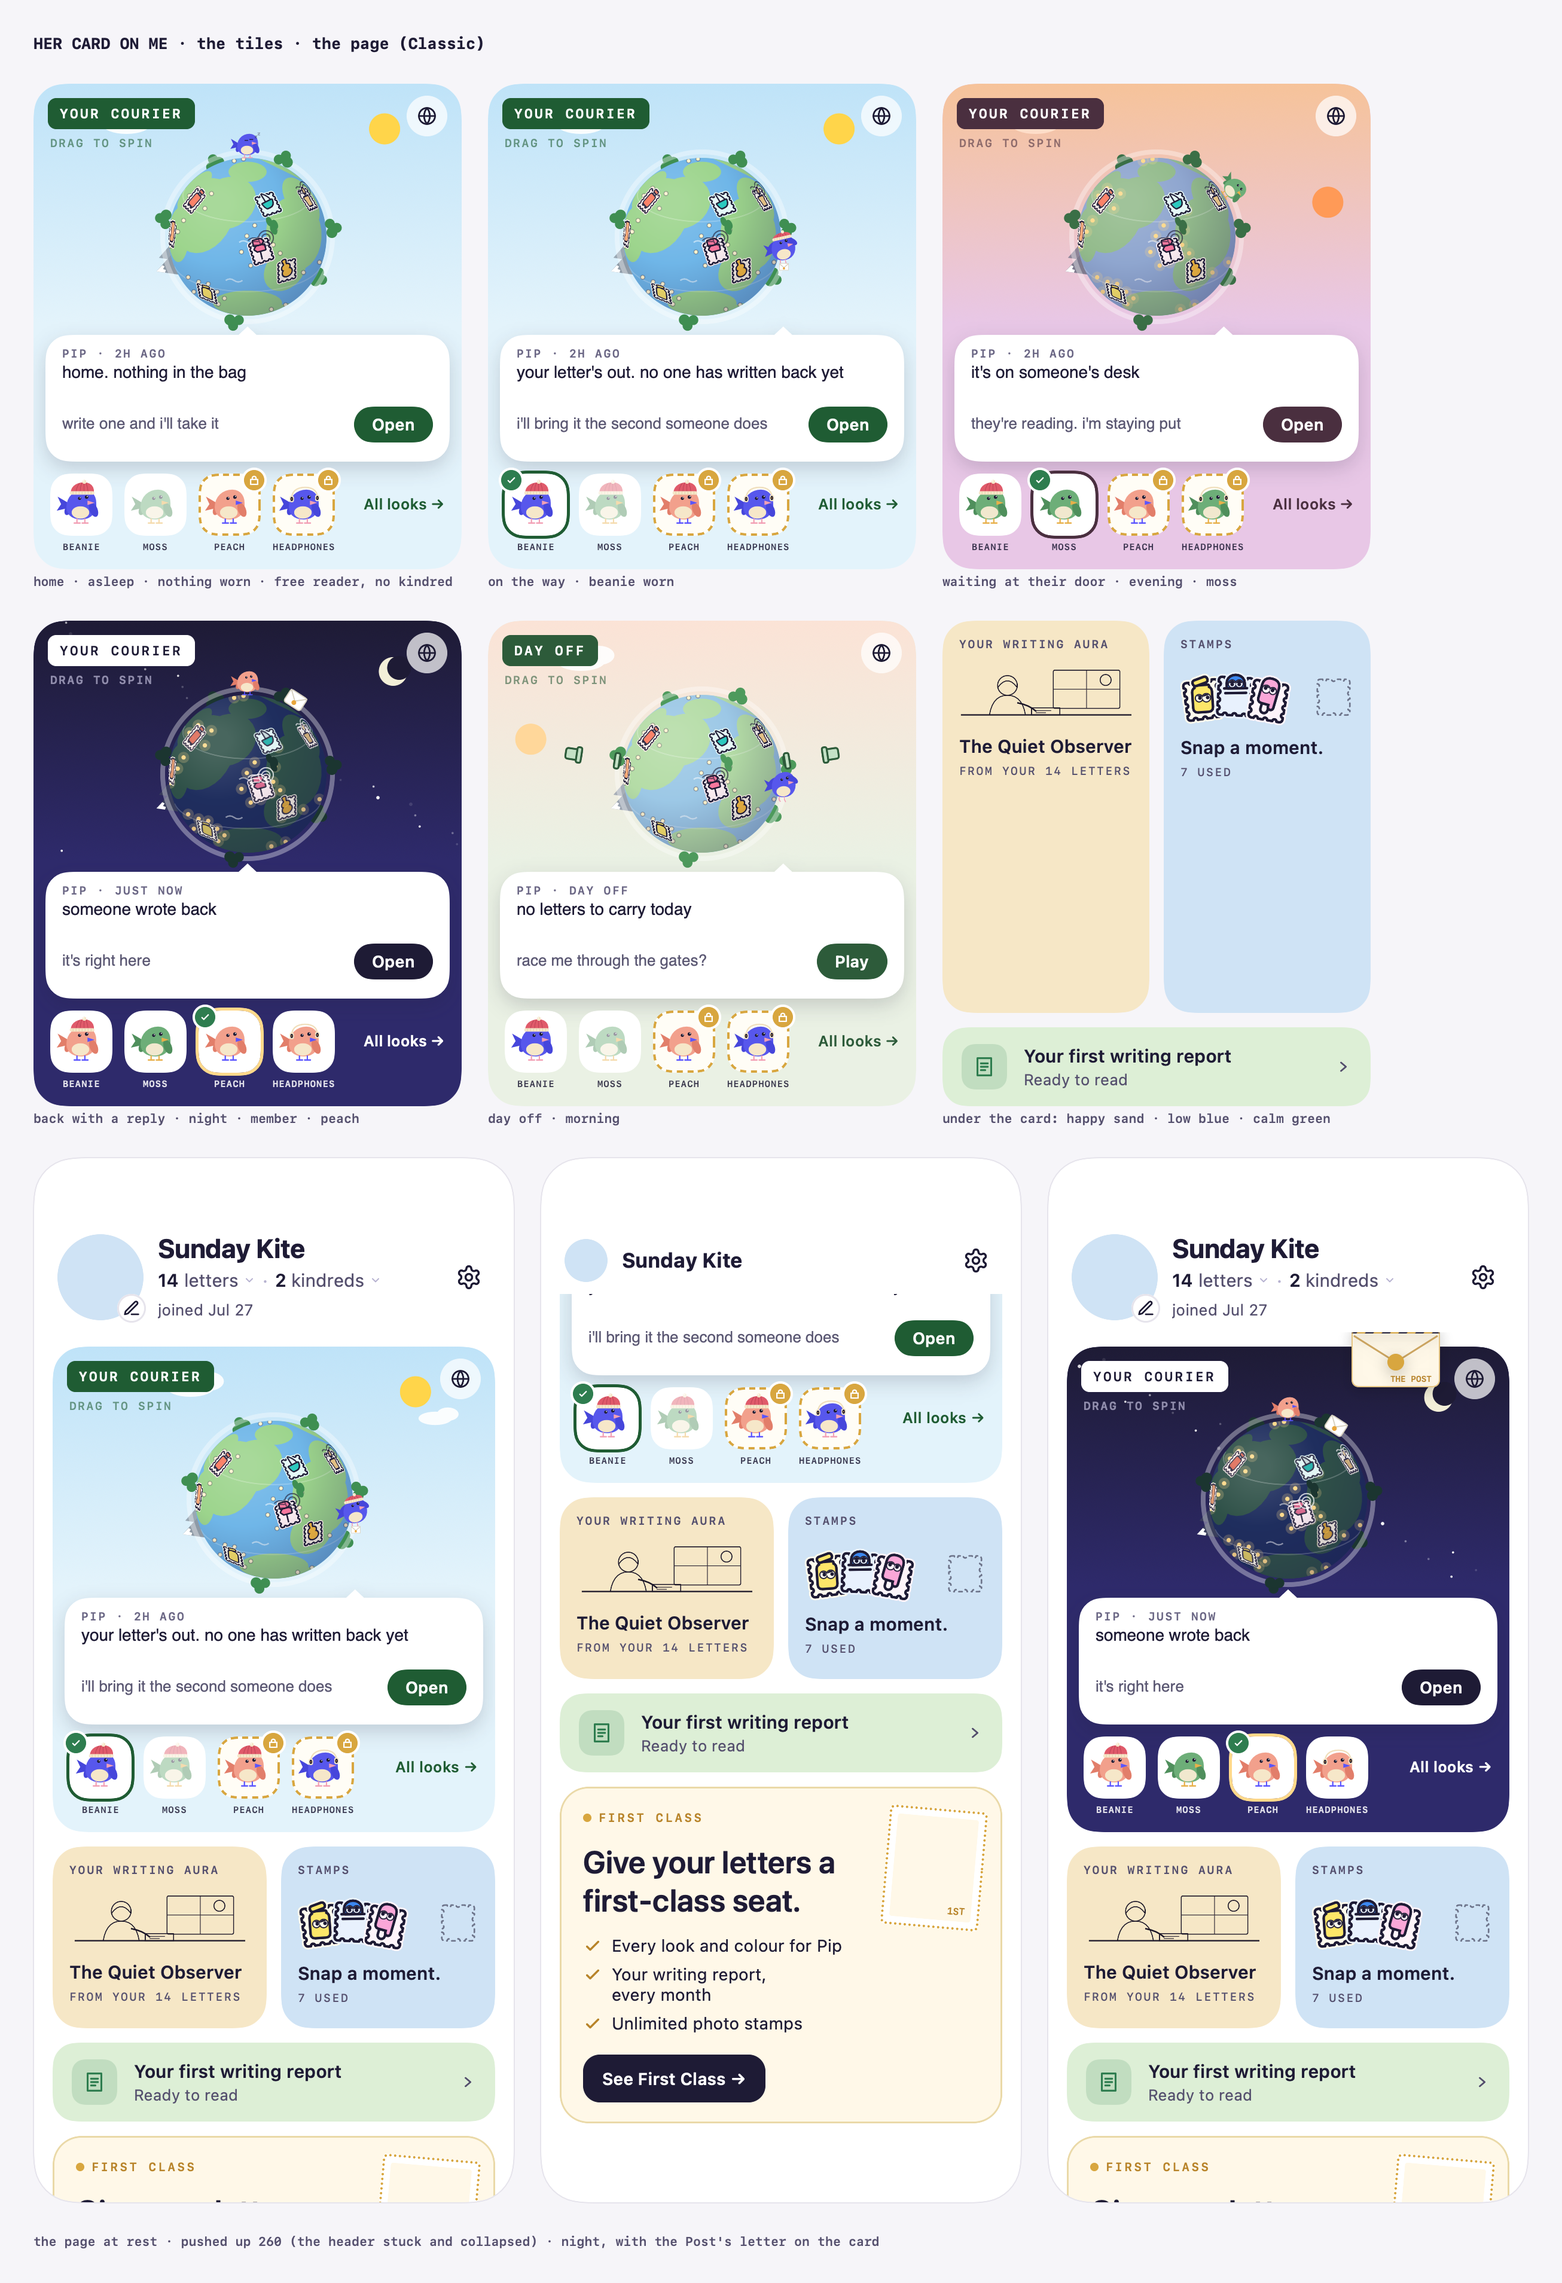
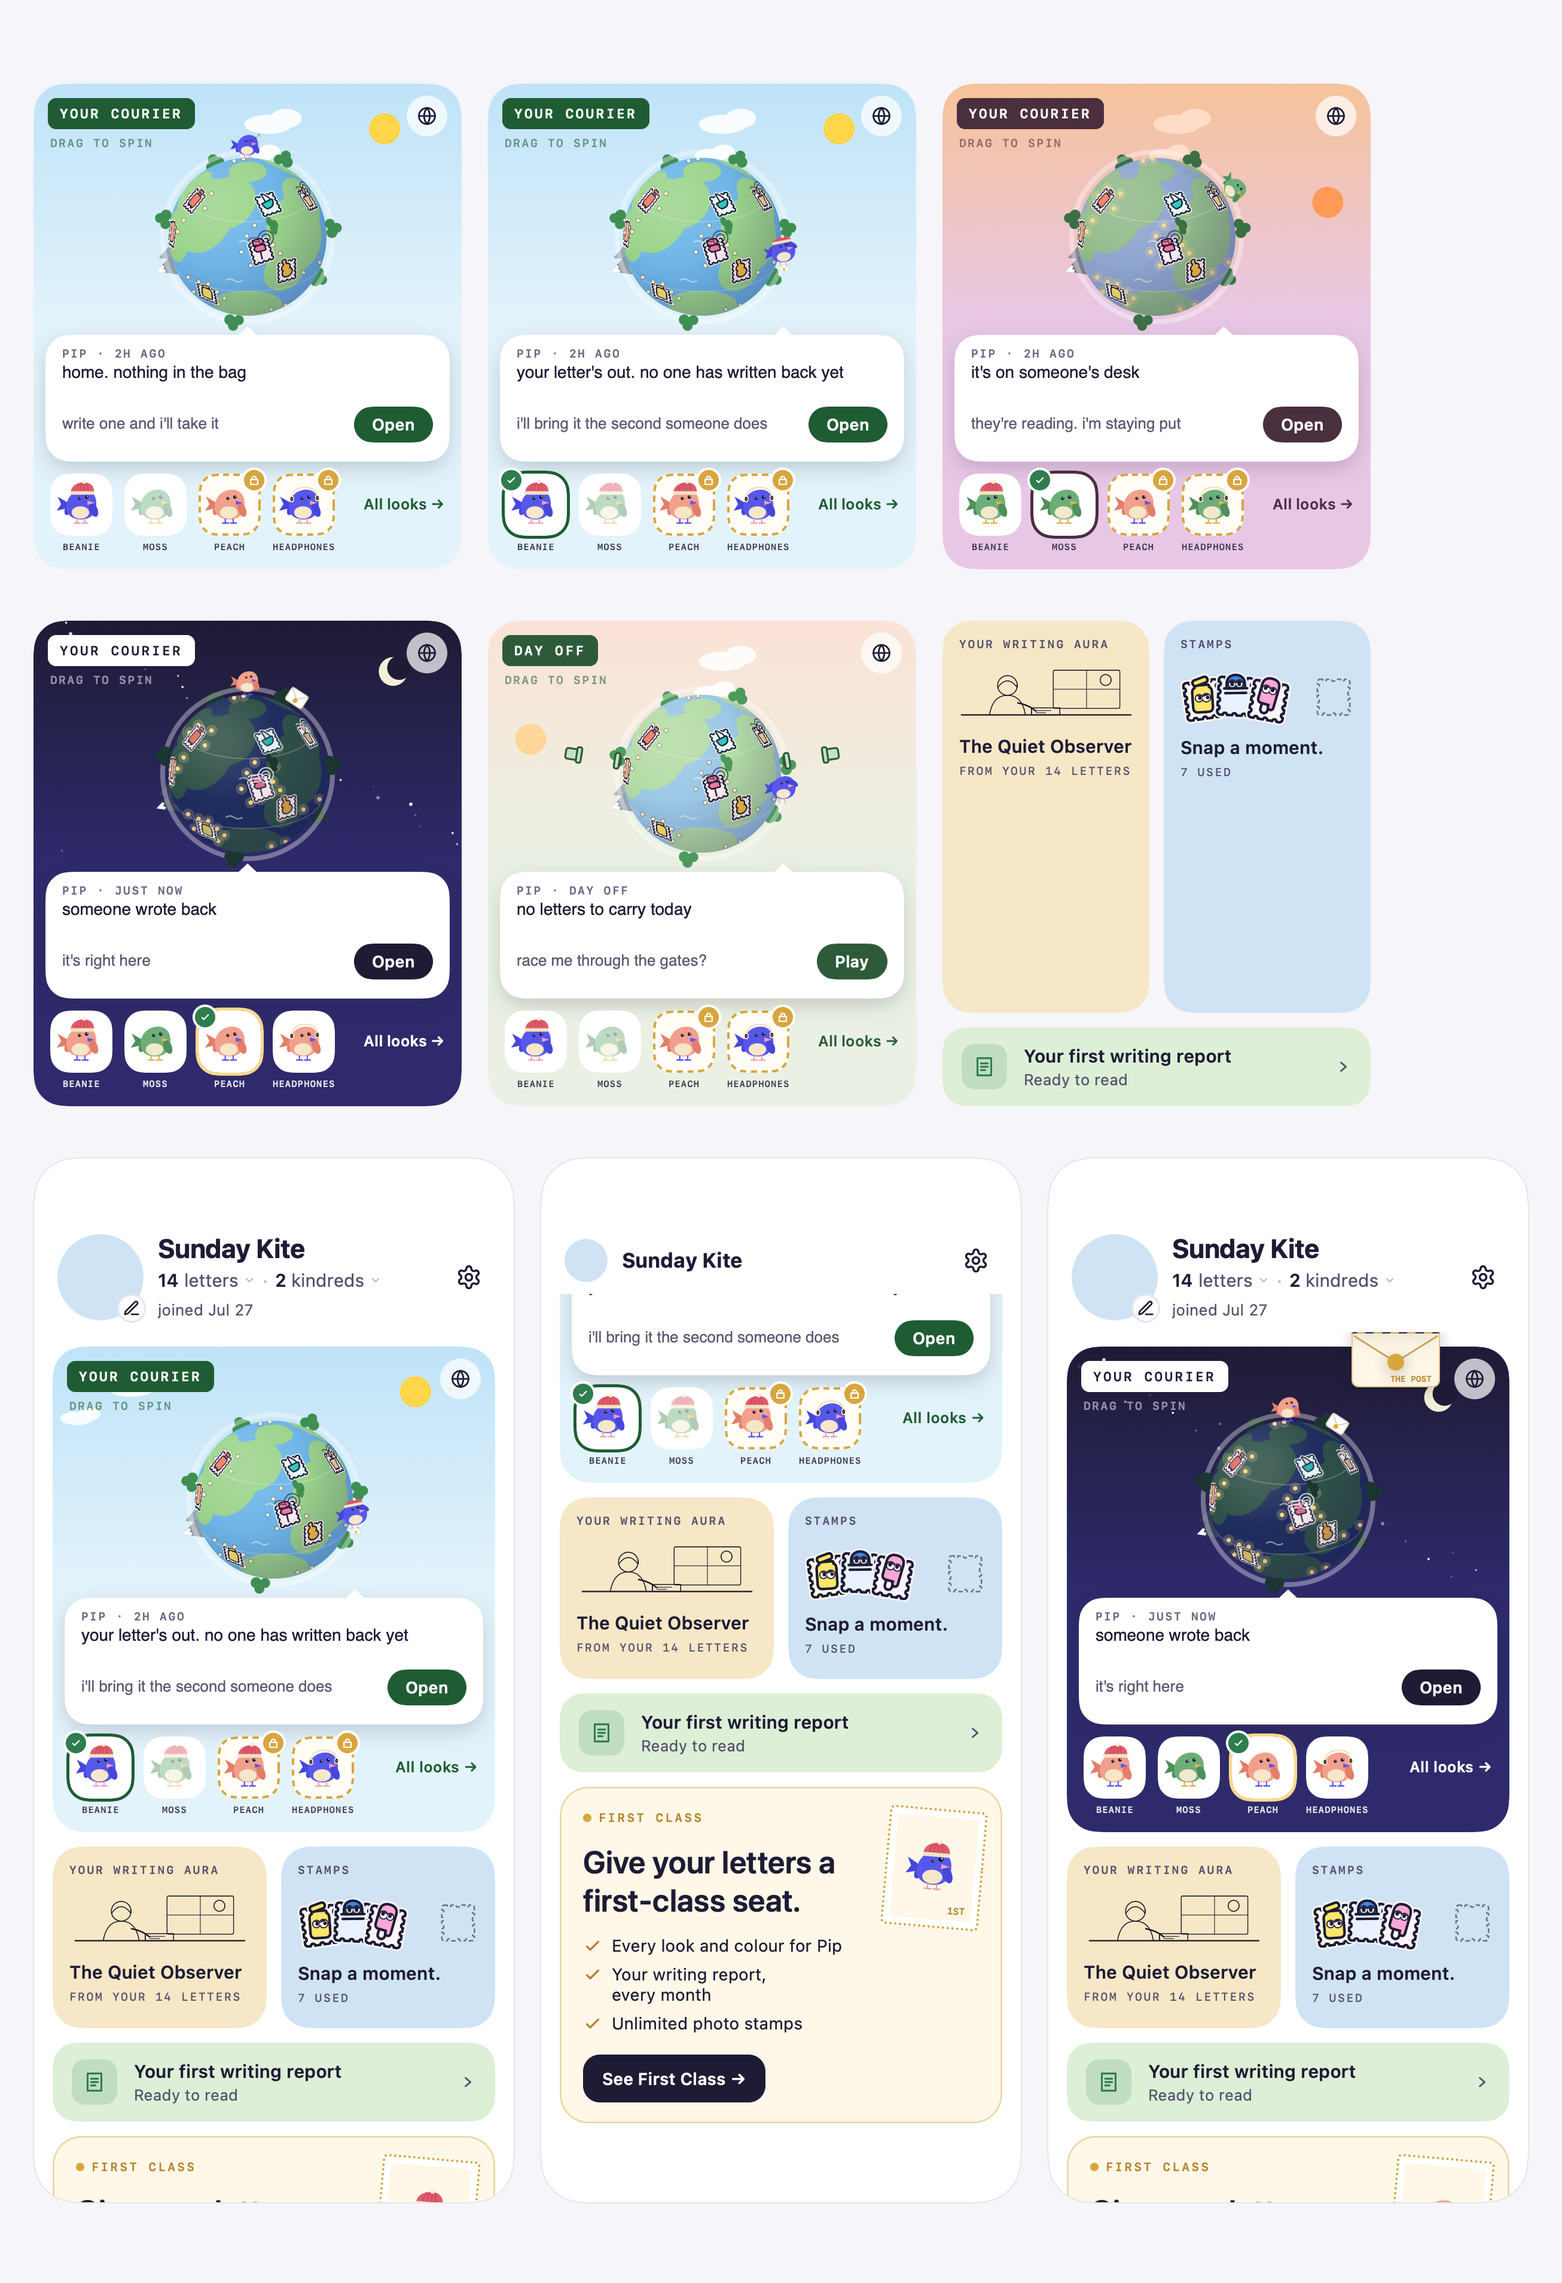
With the planet, nothing on Me is a picture of her
The First Class card's stamp can take her look and be drawn by KWrenBird
(KMeFirstClass.wren; the snapshot stays for every other page). With the
planet on, the Me tab sends that look and captures no bird snapshot at all:
the old looks tiles and the stamp were the last five.

diff --git a/src/screens/me/MeNative.tsx b/src/screens/me/MeNative.tsx
@@ -23,7 +23,7 @@ import { CourierCard } from "../../components/CourierCard";
 import { AURA_ART_H, AuraArtSlot, auraArtWidth } from "../../components/AuraCard";
 import { useLetterFont, useTheme } from "../../lib/theme";
 import { useScreenInsets } from "../../lib/screen-insets";
-import { useBirdImageRef, type BirdPose } from "../../lib/bird-images";
+import { useBirdImageRefs, type BirdPose } from "../../lib/bird-images";
 import { faceRecord, useFaceSources, type FaceInput, type FaceSource } from "../../lib/faces";
 import type { ImageRefRecord } from "../../lib/images";
 import { t } from "../../lib/i18n";
@@ -220,18 +220,31 @@ export function MeNative({ model }: { model: MeModel }) {
   const myStamp = useMyStamp();
   const stampOf = useMemberStamps(me4a.peekKindreds.items.map((k) => k.face.seed));
 
+  /* the Stamps card (custom stamps, Prompt 1): MADE BY YOU, FROM STRANGERS, YOUR STAMPS, the album
+     (useStampCollection: the facts, the words and the taps; the album route shares it) */
+  const collection = useStampCollection({ where: "me" });
+  // the courier's planet, when "meplanet" is on (null: the page of segments, as before); its
+  // clock runs only while the tab is focused. Kept by content like the records below, and in
+  // the rev with them: Swift converts it with the page's content
+  const focused = useIsFocused();
+  const planet = useMePlanetData(model, collection.card, { live: focused });
+  const onPlanet = !!planet;
+
   // her pictures: the looks tiles (grown, each look pinned; lookWorn is whatever she has on) and
   // the First Class stamp
   // the middle two tiles' poses come from the model (beanie and scarf, or the season's two looks),
-  // so only the four pictures on the row are captured
-  const lookNone = useBirdImageRef("lookNone");
+  // so only the four pictures on the row are captured.
+  // WITH THE PLANET NONE IS CAPTURED: nothing on that page is a picture of her (the shelf and
+  // the First Class stamp are drawn by Swift from her look)
   const pose1 = me4a.looks.tiles[1]?.pose ?? "lookBeanie";
   const pose2 = me4a.looks.tiles[2]?.pose ?? "lookScarf";
-  const look1 = useBirdImageRef(pose1);
-  const look2 = useBirdImageRef(pose2);
-  const lookWorn = useBirdImageRef("lookWorn");
   const fcPose: BirdPose = me4a.firstClass.pose;
-  const fcBird = useBirdImageRef(fcPose);
+  const snaps = useBirdImageRefs<BirdPose>(onPlanet ? [] : ["lookNone", pose1, pose2, "lookWorn", fcPose]);
+  const lookNone = snaps.lookNone ?? null;
+  const look1 = snaps[pose1] ?? null;
+  const look2 = snaps[pose2] ?? null;
+  const lookWorn = snaps.lookWorn ?? null;
+  const fcBird = snaps[fcPose] ?? null;
   const birds = useMemo(() => {
     const b: Record<LookPose, ImageRefRecord | null> = { lookNone, lookBeanie: null, lookScarf: null, lookWitch: null, lookGhost: null, lookWorn };
     b[pose1] = look1;
@@ -246,9 +259,6 @@ export function MeNative({ model }: { model: MeModel }) {
   const looks = useSameContent(useMemo(() => nativeLooks(me4a, birds), [me4a, birds]));
   const auraRec = useSameContent(useMemo(() => nativeAura(view.aura), [view.aura]));
   const report = useSameContent(useMemo(() => nativeReport(me4a), [me4a]));
-  /* the Stamps card (custom stamps, Prompt 1): MADE BY YOU, FROM STRANGERS, YOUR STAMPS, the album
-     (useStampCollection: the facts, the words and the taps; the album route shares it) */
-  const collection = useStampCollection({ where: "me" });
   const stamps = useSameContent<KMeStamps>(collection.card);
   const firstClass = useSameContent<KMeFirstClass>(
     useMemo(
@@ -261,8 +271,11 @@ export function MeNative({ model }: { model: MeModel }) {
         stampLabel: me4a.firstClass.stampLabel,
         bird: fcBird,
         member: me4a.firstClass.member,
+        // with the planet her stamp is drawn by Swift, in the face the snapshot has (lib/bird-images
+        // fcFree: curious; fcMember: delight), grown, in what she wears
+        wren: onPlanet ? { skin: model.planet.shelf.skin, stage: "wren" as const, mood: me4a.firstClass.member ? ("delight" as const) : ("curious" as const), accessory: model.planet.shelf.dress } : null,
       }),
-      [me4a.firstClass, fcBird],
+      [me4a.firstClass, fcBird, onPlanet, model.planet.shelf.skin, model.planet.shelf.dress],
     ),
   );
   /* First Class by the day (lib/fc-rollout): the record without the courier's words */
@@ -271,12 +284,6 @@ export function MeNative({ model }: { model: MeModel }) {
   void _cs;
   const fcSent = useSameContent<KMeFcRollout>(fcRecord);
   const fcOpen = fc.open;
-  // the courier's planet, when "meplanet" is on (null: the page of segments, as before); its
-  // clock runs only while the tab is focused. Kept by content like the records above, and in
-  // the rev with them: Swift converts it with the page's content
-  const focused = useIsFocused();
-  const planet = useMePlanetData(model, collection.card, { live: focused });
-  const onPlanet = !!planet;
   const rev = useRev(strings, profile, peekLetters, peekKindreds, looks, auraRec, report, stamps, firstClass, fcSent, planet);
 
   // a free reader's First Class look and "All looks →": the First Class segment, shown as its

diff --git a/modules/kindredly-ui/src/Me.tsx b/modules/kindredly-ui/src/Me.tsx
@@ -6,7 +6,7 @@ import { nativeFrost, type KFrost, type KImageRefProps, type KInsets, type KScre
 import type { KKindredsFace } from "./Kindreds";
 import { nativeAuraArt, nativeCourierCard, type KAuraArtData, type KCourierCardData, type NativeAuraArt, type NativeCourierCard } from "./MePieces";
 import { nativeMyFace, type KMyFaceData } from "./LastIslands";
-import { nativeMePlanet, type KMePlanetData, type NativeMePlanet } from "./Planet";
+import { nativeMePlanet, nativeWrenLook, type KMePlanetData, type KWrenLookData, type NativeMePlanet } from "./Planet";
 
 /* THE ME TAB (4a, 2026-10-19), drawn by SwiftUI (ios/Portable/Me/KMeScreen.swift, adapter
    ios/Adapters/KMeView.swift), for src/screens/me/MeNative.tsx. Every word, figure and destination
@@ -181,6 +181,9 @@ export type KMeFirstClass = {
   /** the courier's snapshot for the stamp (lib/bird-images fcFree / fcMember); null for none */
   bird: KImageRefProps | null;
   member: boolean;
+  /** her look, drawn by Swift on the stamp instead of the snapshot (the courier's planet, Planet.ts);
+      absent or null keeps the snapshot */
+  wren?: KWrenLookData | null;
 };
 
 /** First Class by the day (src/lib/fc-rollout): the form on the page and its words. */
@@ -312,7 +315,7 @@ type NativeKMeViewProps = Omit<KMeViewProps, "letterFont" | "insets" | "rev" | "
     ref?: Ref<KScreenHandle>;
     peekKindreds: Omit<KMePeekKindreds, "items"> & { items: (Omit<KMePeekKindred, "face"> & { face: NativeFace })[] };
     looks: Omit<KMeLooks, "tiles"> & { tiles: (Omit<KMeLookTile, "bird"> & { bird: NativeImage })[] };
-    firstClass: Omit<KMeFirstClass, "bird"> & { bird: NativeImage };
+    firstClass: Omit<KMeFirstClass, "bird" | "wren"> & { bird: NativeImage; wrenOn: boolean; wren: ReturnType<typeof nativeWrenLook> };
     onMeSettings?: None;
     onMeEdit?: None;
     onMePeek?: Ev<{ key: "letters" | "kindreds"; open: boolean }>;
@@ -397,7 +400,10 @@ export const KMeView = forwardRef<KScreenHandle, KMeViewProps>(function KMeView(
   // else doesn't send them again
   const sentKindreds = useMemo(() => ({ ...peekKindreds, items: peekKindreds.items.map((k) => ({ ...k, face: face(k.face) })) }), [peekKindreds]);
   const sentLooks = useMemo(() => ({ ...looks, tiles: looks.tiles.map((t) => ({ ...t, bird: image(t.bird) })) }), [looks]);
-  const sentFirstClass = useMemo(() => ({ ...firstClass, bird: image(firstClass.bird) }), [firstClass]);
+  const sentFirstClass = useMemo(
+    () => ({ ...firstClass, bird: image(firstClass.bird), wrenOn: !!firstClass.wren, wren: nativeWrenLook(firstClass.wren ?? { skin: "sticker", stage: "wren", accessory: "none" }) }),
+    [firstClass],
+  );
   const sentCourierCard = useMemo(() => nativeCourierCard(courierCard), [courierCard]);
   const sentAuraArt = useMemo(() => nativeAuraArt(auraArt), [auraArt]);
   const sentMyFace = useMemo(() => nativeMyFace(myFace), [myFace]);

diff --git a/modules/kindredly-ui/ios/Adapters/KMeView.swift b/modules/kindredly-ui/ios/Adapters/KMeView.swift
@@ -35,7 +35,8 @@ import ExpoUI
    made: [{ id, topic, fresh, note, a11y }], newLabel, full, fullTitle, fullSub, fullCta, notNow,
    ready, readyCta, readyId, strangersLabel, strangersCount, strangers: [{ id, from, a11y }],
    strangersEmpty, album } (custom stamps: Portable/Me/KStampsCard.swift)
- - firstClass: { eyebrow, headline, rows, cta, trial ("" = none), stampLabel, bird, member }
+ - firstClass: { eyebrow, headline, rows, cta, trial ("" = none), stampLabel, bird, member,
+   wrenOn, wren (KWrenLookRecord: with wrenOn, Swift draws her on the stamp and `bird` is unused) }
  - initialSegment: the segment to open on (read when the view first draws)
  Every record above is converted once per rev (useRev in TS).
 
@@ -422,6 +423,11 @@ struct KMeFirstClassRecord: Record {
   @Field var stampLabel: String = ""
   @Field var bird: KImageRefRecord = KImageRefRecord()
   @Field var member: Bool = false
+  /// her look for the stamp, drawn by Swift instead of the snapshot (the courier's planet;
+  /// Adapters/KMePlanetView.swift has the record). Off, and all a record from before it can be:
+  /// the snapshot
+  @Field var wrenOn: Bool = false
+  @Field var wren: KWrenLookRecord = KWrenLookRecord()
 
   var firstClass: KMeFirstClass {
     var f = KMeFirstClass()
@@ -432,6 +438,7 @@ struct KMeFirstClassRecord: Record {
     f.trial = trial
     f.stampLabel = stampLabel
     f.bird = bird.ref
+    f.wren = wrenOn ? wren.look : nil
     f.member = member
     return f
   }

diff --git a/modules/kindredly-ui/ios/Portable/Me/KMeScreen.swift b/modules/kindredly-ui/ios/Portable/Me/KMeScreen.swift
@@ -415,6 +415,9 @@ public struct KMeFirstClass: Equatable, Sendable {
   public var stampLabel = ""
   /// the courier's live snapshot for the stamp; nil leaves its face cream
   public var bird: KImageRef?
+  /// her look, drawn by Swift (KWrenBird) on the stamp instead of the snapshot; nil for the
+  /// snapshot. The courier's planet sends this: nothing on that page is a picture of her
+  public var wren: KWrenLook?
   public var member = false
 
   public init() {}
@@ -1271,7 +1274,11 @@ struct KMeFirstClassCard: View {
     let inner = CGSize(width: size.width - 14, height: size.height - 14)
     return ZStack {
       RoundedRectangle(cornerRadius: 2, style: .circular).fill(KBrand.cream)
-      KImage(card.bird, size: CGSize(width: inner.width * 0.7, height: inner.width * 0.7), contentMode: .fit, placeholder: .clear)
+      if let look = card.wren {
+        KWrenBird(look, size: inner.width * 0.7)
+      } else {
+        KImage(card.bird, size: CGSize(width: inner.width * 0.7, height: inner.width * 0.7), contentMode: .fit, placeholder: .clear)
+      }
     }
     .frame(width: inner.width, height: inner.height)
     .overlay(alignment: .bottomTrailing) {

diff --git a/design/courier-planet/checks/me-sheet.swift b/design/courier-planet/checks/me-sheet.swift
@@ -159,6 +159,10 @@ func meContent(_ c: Case) -> KMeContent {
   m.firstClass.rows = ["Every look and colour for Pip", "Your writing report, every month", "Unlimited photo stamps"]
   m.firstClass.cta = "See First Class →"
   m.firstClass.stampLabel = "1ST"
+  // with the planet her stamp is drawn by Swift: curious, grown, in what she wears
+  var onStamp = KWrenLook(skin: c.look.skin, stage: .wren, mood: .curious, accessory: c.look.accessory)
+  onStamp.letter = false
+  m.firstClass.wren = onStamp
   m.planet = planet(c)
   return m
 }

diff --git a/docs/courier-planet.md b/docs/courier-planet.md
@@ -249,6 +249,9 @@ text and the prototype disagree, the prototype wins unless this text says "chang
     change without the slide.
   - `docs/CHANGELOG.md`: the planet's lines under Unreleased (not in 1.0.9; `[switch: meplanet]`)
     and the plain lines (`[OTA]`).
+- 2026-11-11 — **nothing on the planet's Me is a picture of her.** The First Class card's stamp
+  takes her look (`KMeFirstClass.wren`) and is drawn by KWrenBird; with the planet on, MeNative
+  captures no bird snapshot at all (the old looks tiles and the stamp were the last five).
 - 2026-11-11 — **the adapters type-check.** `checks/typecheck-module.sh` compiles the whole
   module (Portable, Adapters, the module file) against the real Expo interfaces without a build:
   no errors. What is left for the device is behaviour, not compilation.
